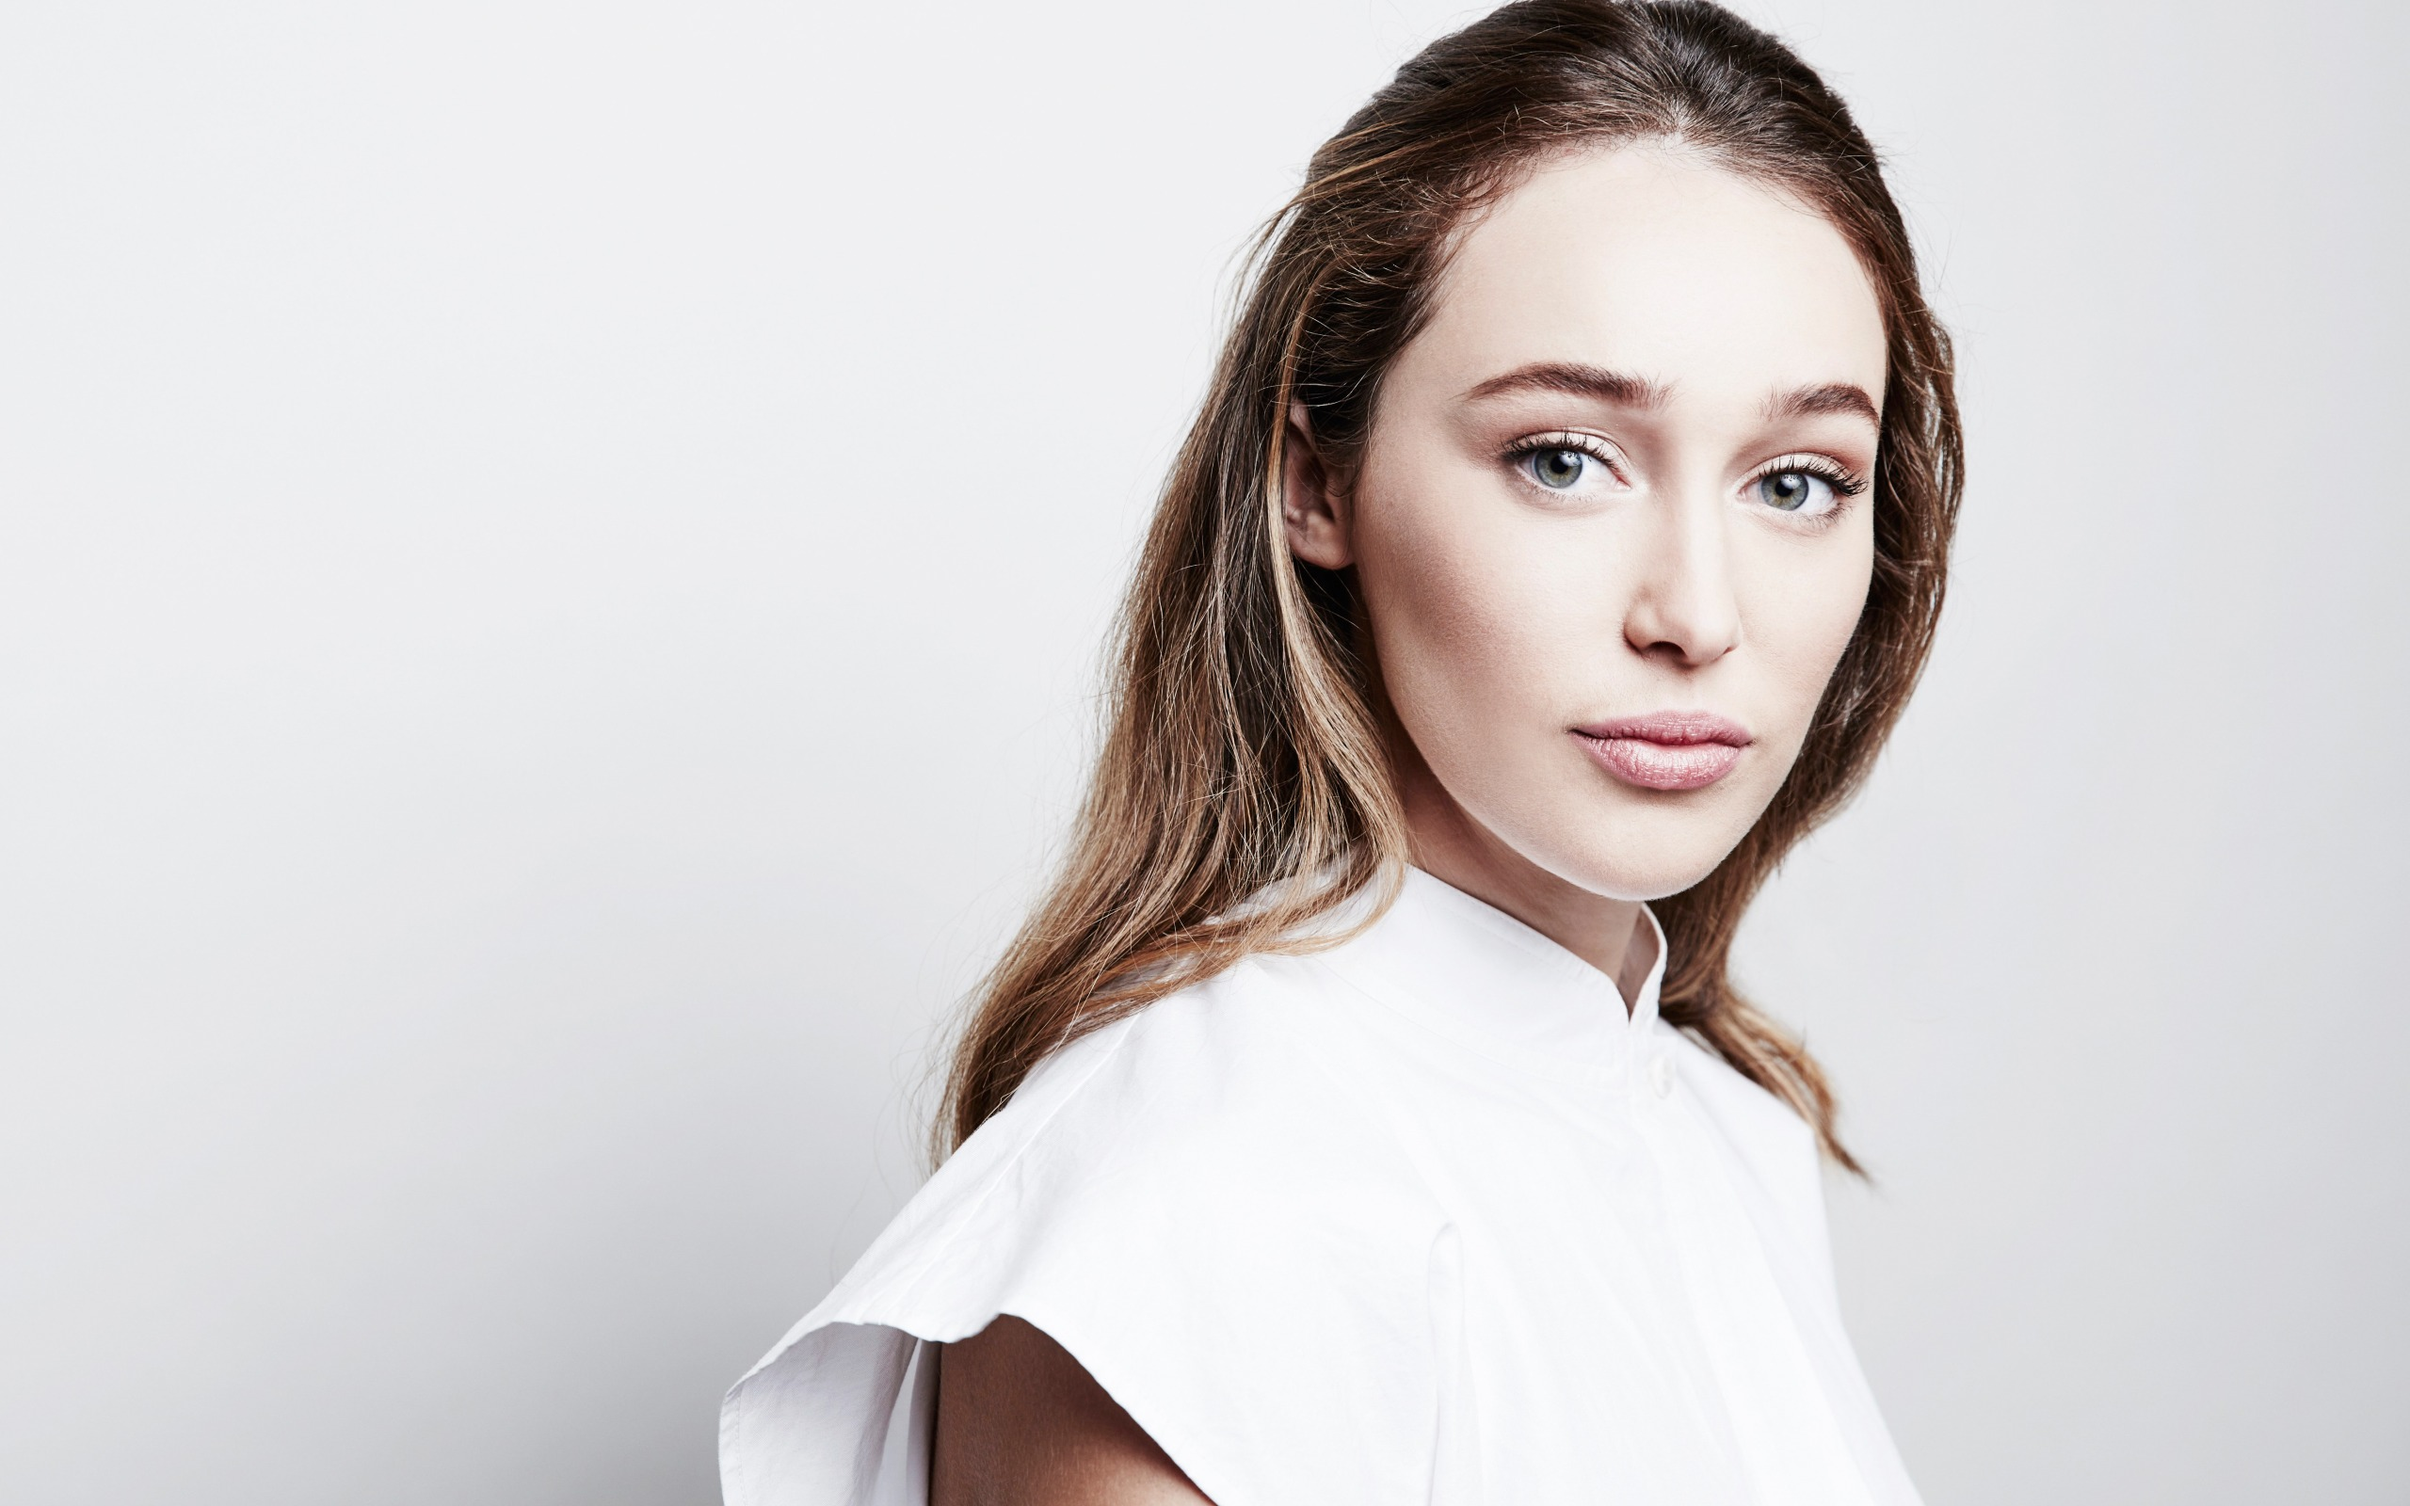
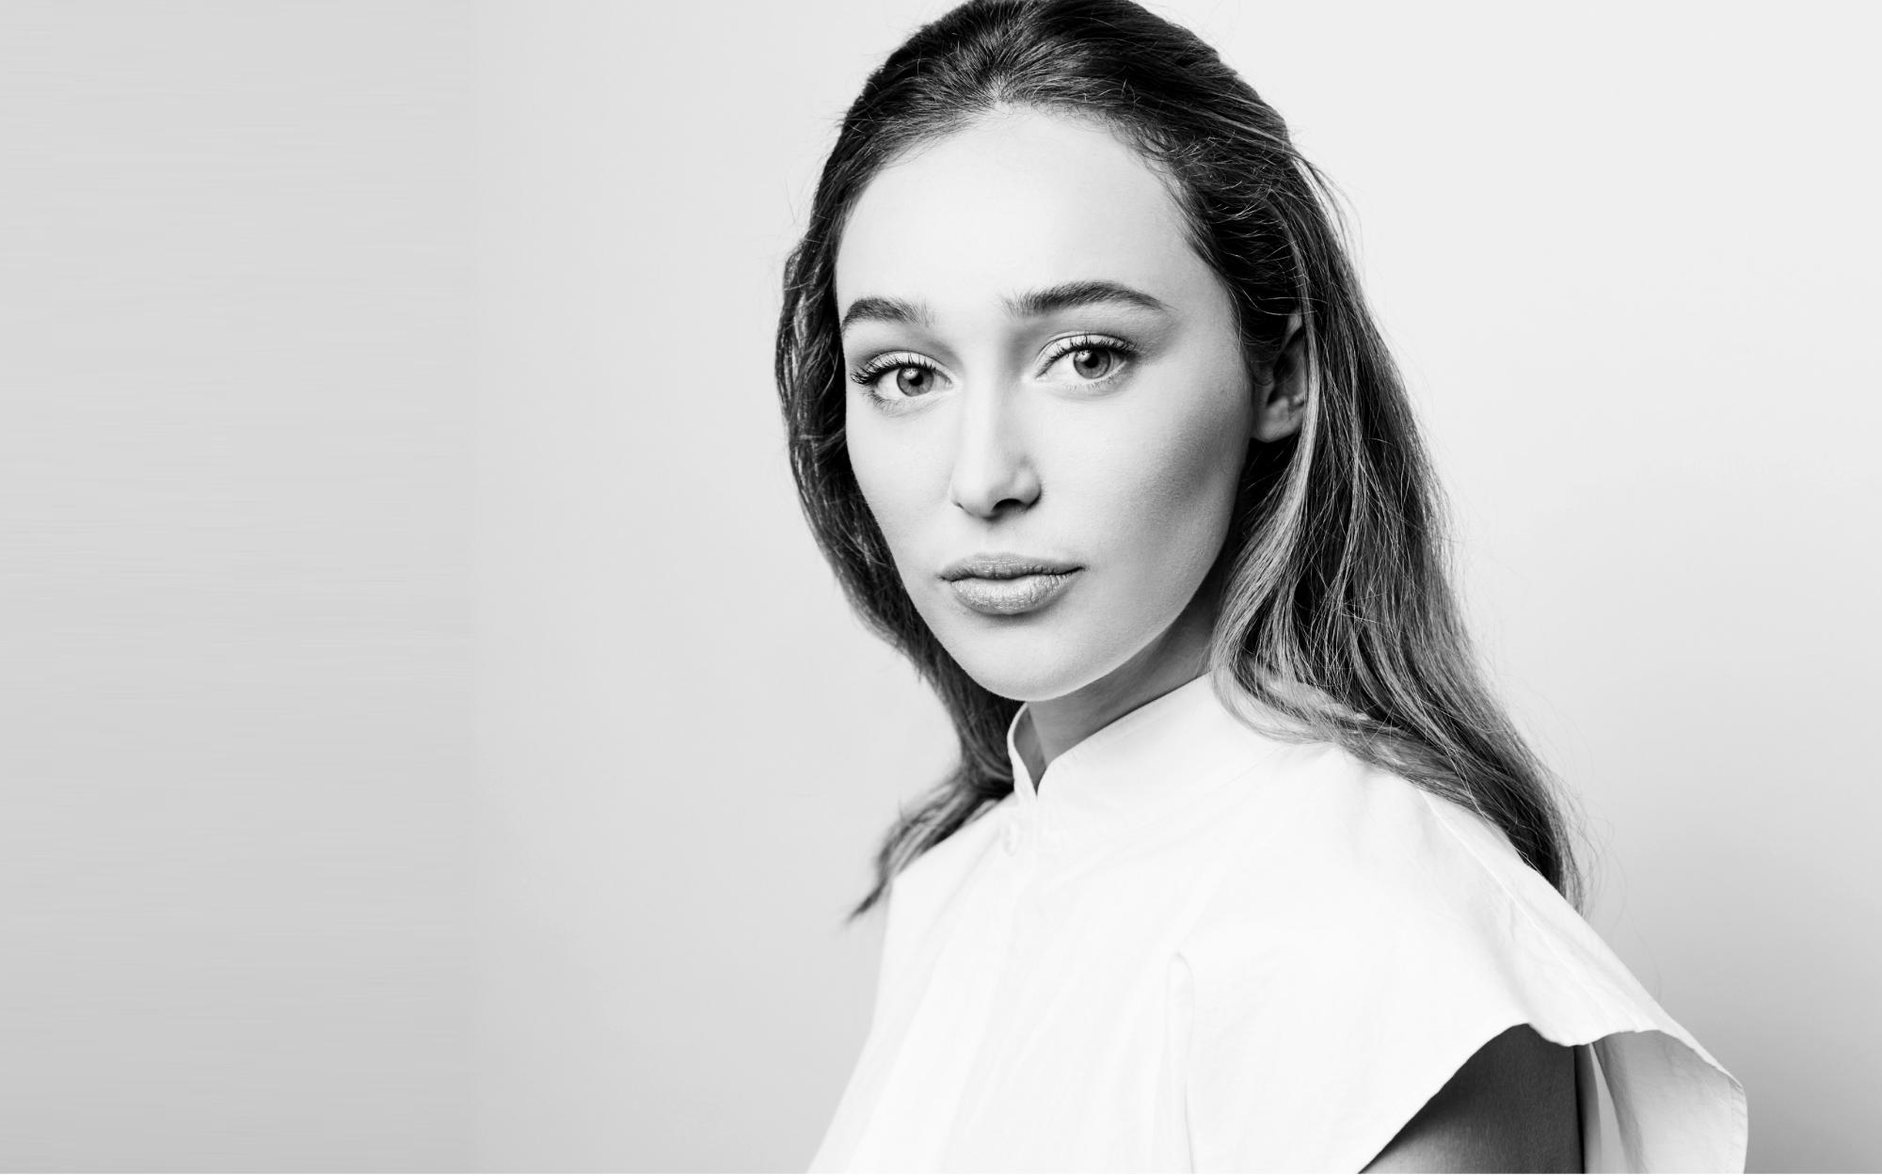
Made header img smaller

diff --git a/index.html b/index.html
@@ -131,7 +131,7 @@
 						<h3 class="card-title text-center text-lg-left">skills &amp; abilities</h3>
 						<div class="progress mt-4">
 							<div class="progress-bar bg-dark" role="progressbar" style="width: 75%" aria-valuenow="75" aria-valuemin="0"
-							aria-valuemax="100"></div>
+							 aria-valuemax="100"></div>
 						</div>
 						<div class="d-flex">
 							<p class="h6 text-uppercase w-50">Design
@@ -140,7 +140,7 @@
 						</div>
 						<div class="progress mt-4">
 							<div class="progress-bar bg-dark" role="progressbar" style="width: 90%" aria-valuenow="90" aria-valuemin="0"
-							aria-valuemax="100"></div>
+							 aria-valuemax="100"></div>
 						</div>
 						<div class="d-flex">
 							<p class="h6 text-uppercase w-50">HTML/CSS
@@ -149,7 +149,7 @@
 						</div>
 						<div class="progress mt-4">
 							<div class="progress-bar bg-dark" role="progressbar" style="width: 45%" aria-valuenow="45" aria-valuemin="0"
-							aria-valuemax="100"></div>
+							 aria-valuemax="100"></div>
 						</div>
 						<div class="d-flex">
 							<p class="h6 text-uppercase w-50">wordpress
@@ -158,7 +158,7 @@
 						</div>
 						<div class="progress mt-4">
 							<div class="progress-bar bg-dark" role="progressbar" style="width: 85%" aria-valuenow="85" aria-valuemin="0"
-							aria-valuemax="100"></div>
+							 aria-valuemax="100"></div>
 						</div>
 						<div class="d-flex">
 							<p class="h6 text-uppercase w-50">ux &amp; ux design
@@ -343,7 +343,7 @@
 				<div class="card-body">
 					<p class="card-date mb-2">23th September 2018 / Tech Life </p>
 					<h5 class="card-title">Some tips on
-							how to talk to your programmer</h5>
+						how to talk to your programmer</h5>
 					<p class="card-text">This is a wider card with supporting text below as a natural lead-in to additional content.
 						This card has even longer content than the first to show that equal height action.</p>
 

diff --git a/css/style.css b/css/style.css
@@ -300,7 +300,7 @@ section, .footer {
 
 .header {
   height: 25rem;
-  background: url(../img/header1.jpg) top center/cover no-repeat; }
+  background: url(../img/header.jpg) top center/cover no-repeat; }
   @media (min-width: 576px) {
     .header {
       height: 30rem; } }

diff --git a/src/sass/pages/_home.scss b/src/sass/pages/_home.scss
@@ -10,7 +10,7 @@ section, .footer {
 // HEADER
 .header {
 	height: 25rem;
-	background: url(../img/header1.jpg) top center/ cover no-repeat;
+	background: url(../img/header.jpg) top center/ cover no-repeat;
 	@media (min-width: 576px) {
 		height: 30rem;
 	}
